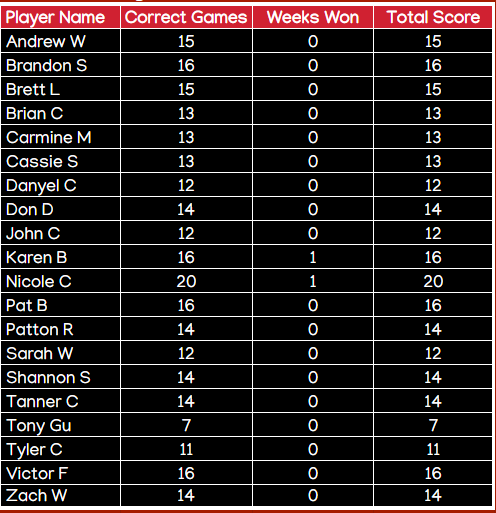
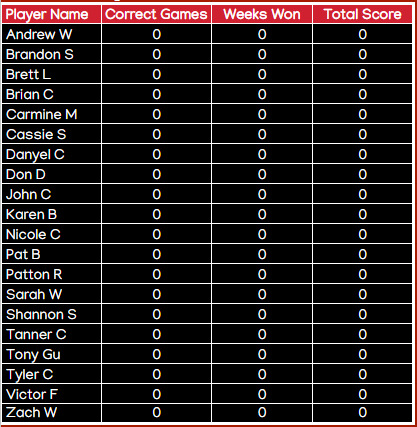
Set up regular season Week 1

Changed region(s): [[0.0, 0.0, 1.0, 1.0]]

diff --git a/pages/nflpool.html b/pages/nflpool.html
@@ -110,12 +110,12 @@
           <!--**SUBMT PICKS BUTTON** - REMOVE "disabled" TO ACTIVATE BUTTON. ADD BACK IN TO DEACTIVEATE
           BUTTON ENABLED:  class="btn nfl-btn">
           BUTTON DISABLED:  class="btn nfl-btn disabled"-->
-          <a href="https://forms.gle/JzKvcxXrCzPQGc7t5" class="btn nfl-btn disabled" target="_blank">Submit Picks</a>
+          <a href="https://forms.gle/JzKvcxXrCzPQGc7t5" class="btn nfl-btn" target="_blank">Submit Picks</a>
 
           <!--**SHOW PICKS BUTTON** - REMOVE "disabled" TO ACTIVATE BUTTON. ADD BACK IN TO DEACTIVEATE
           BUTTON ENABLED:  class="btn nfl-btn">
           BUTTON DISABLED:  class="btn nfl-btn" disabled>-->
-          <button id="toggle-picks-btn" class="btn nfl-btn">Show Player Picks</button>
+          <button id="toggle-picks-btn" class="btn nfl-btn" disabled>Show Player Picks</button>
           <i class="fas fa-angle-double-left arrow-icon"></i>
           
         </div>
